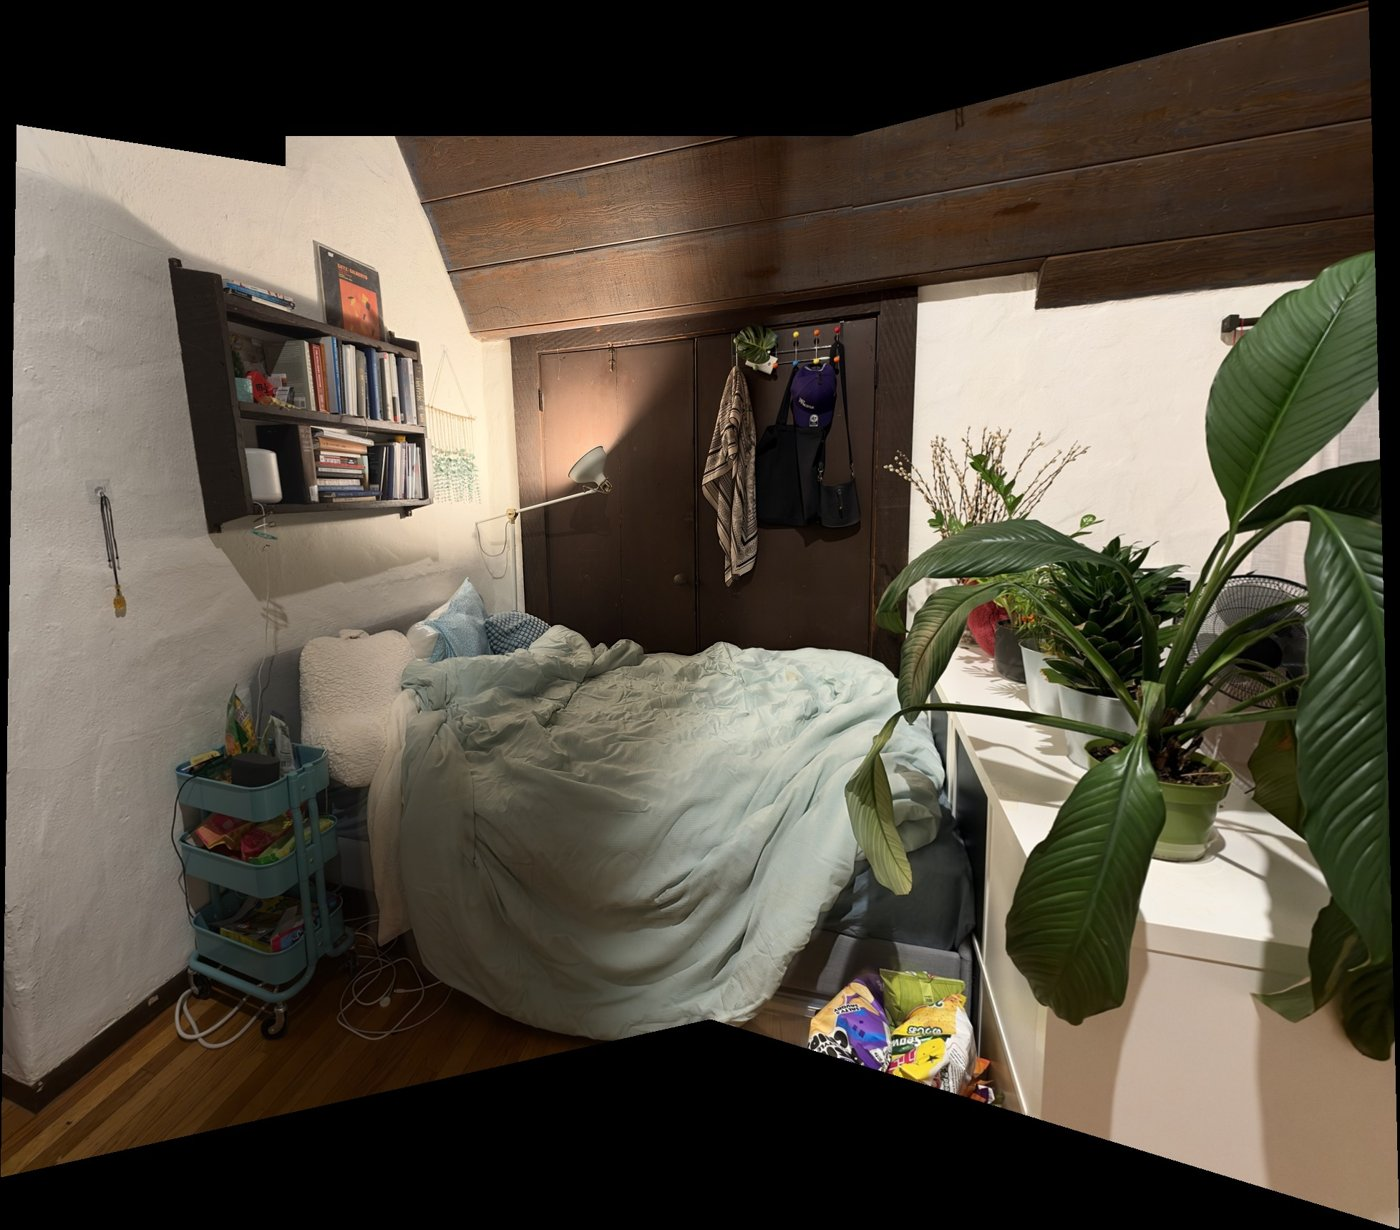
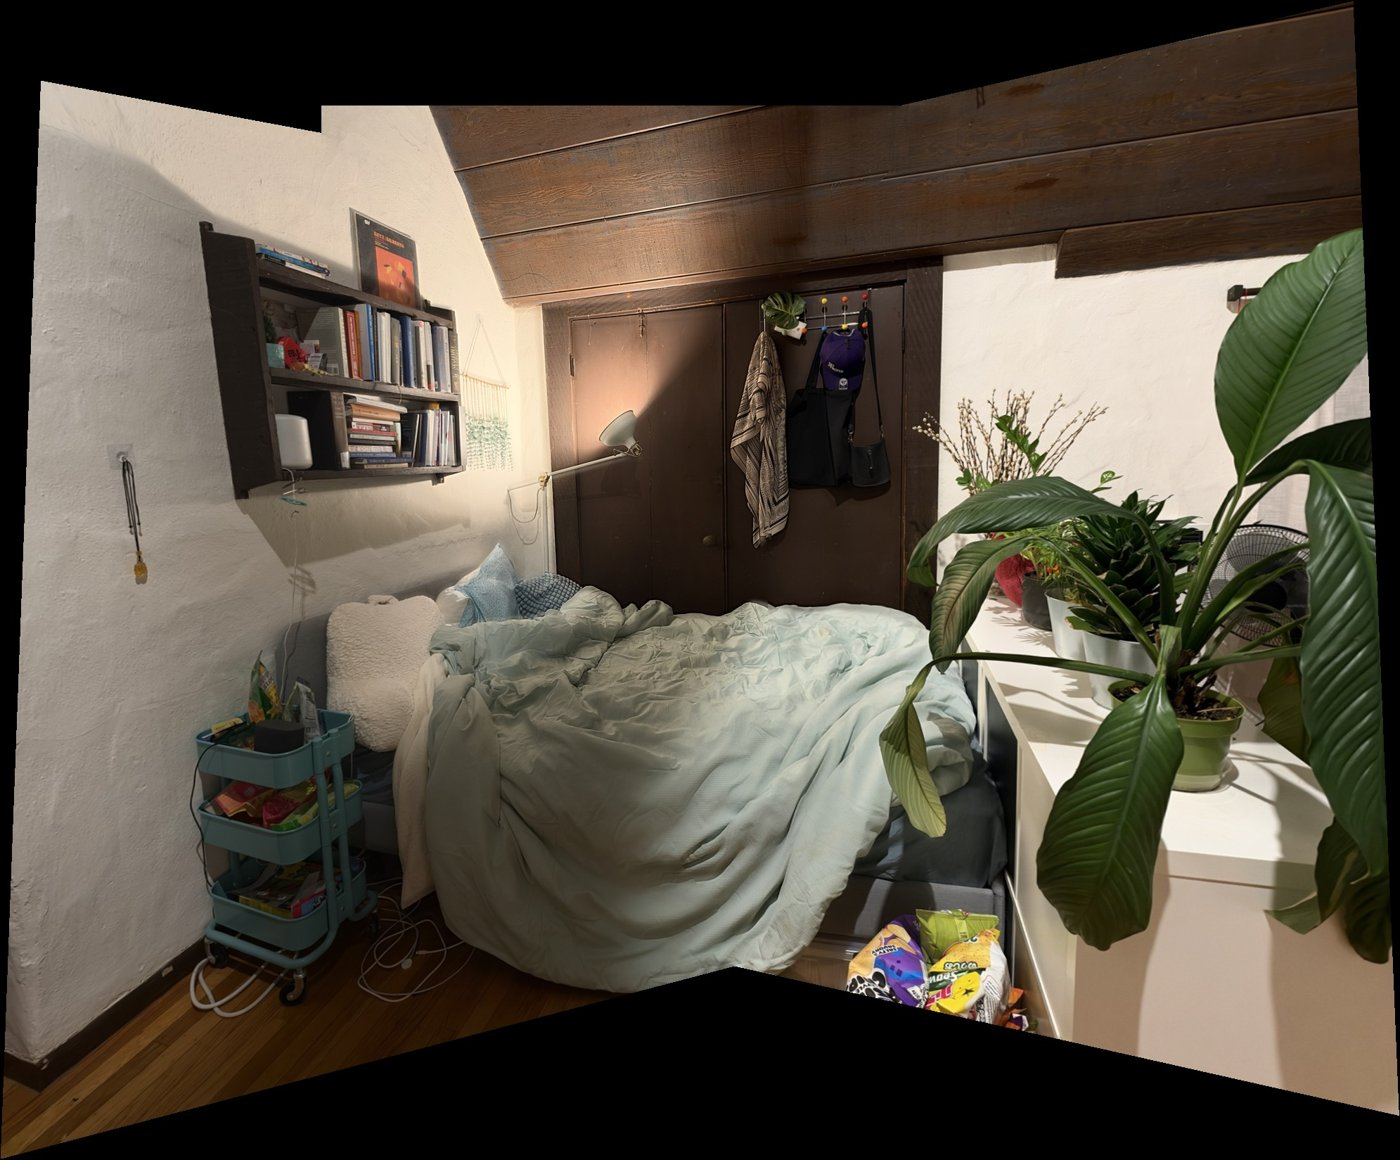
Project 4: use hand-clicked correspondences

diff --git a/src/app/cs180/project4/page.tsx b/src/app/cs180/project4/page.tsx
@@ -80,17 +80,17 @@ export default function Project4() {
 h21 x + h22 y + h23 − h31 x y′ − h32 y y′ = y′`}</pre>
           <p>
             Stacking n ≥ 4 pairs gives A h = b with A of size 2n × 8, solved by
-            least squares. Correspondences for 786 → 787 (9 points):
+            least squares. Correspondences for 786 → 787 (10 points):
           </p>
           <div className="one"><Fig src="corr_786_787.jpg" /></div>
           <pre>{`first two rows of A h = b:
-[332  97  1    0   0  0  −13944   −4074] h = 42
-[  0   0  0  332  97  1  −48472  −14162] h = 146
+[347  904  1    0    0  0   −22246   −57958] h = 64.1
+[  0    0  0  347  904  1  −352516  −918436] h = 1016.5
 
 H =
-[ 1.2668   0.0178  −375.21 ]
-[ 0.2125   1.0928   −15.35 ]
-[ 0.0004  −0.0001     1    ]`}</pre>
+[ 1.3539  −0.0053  −398.42 ]
+[ 0.2702   1.1388   −34.89 ]
+[ 0.0005  −0.0001     1    ]`}</pre>
           <div className="one">
             <Fig src="corr_787_788.jpg" />
             <Fig src="corr_789_790.jpg" />
